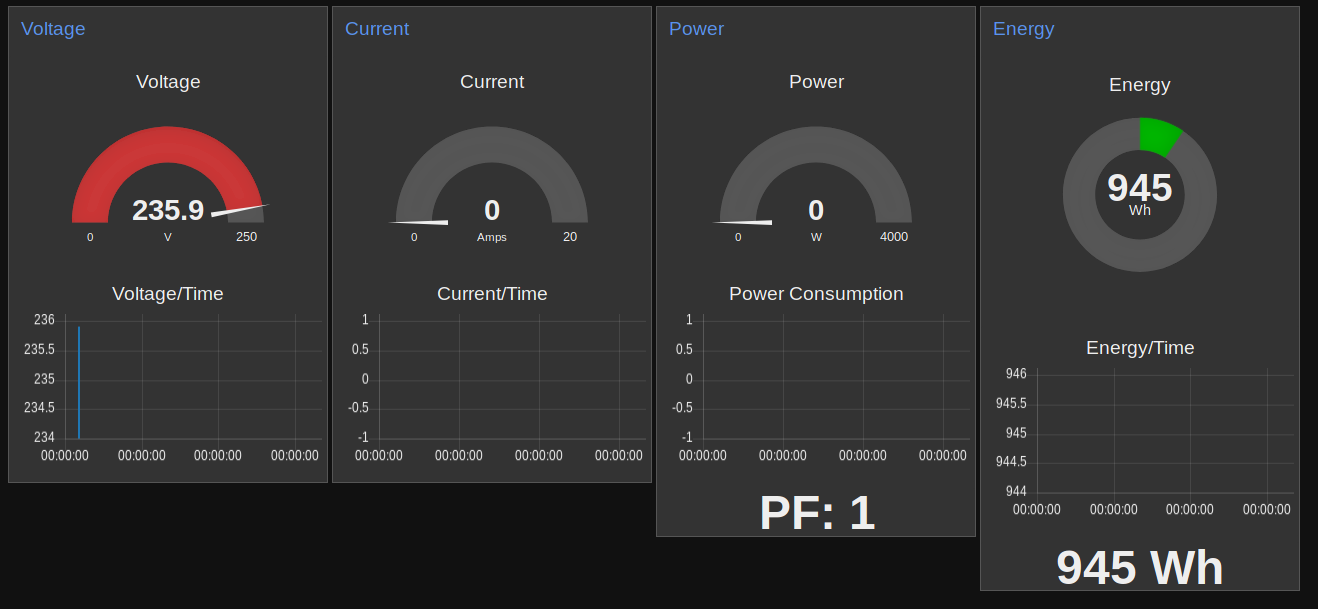
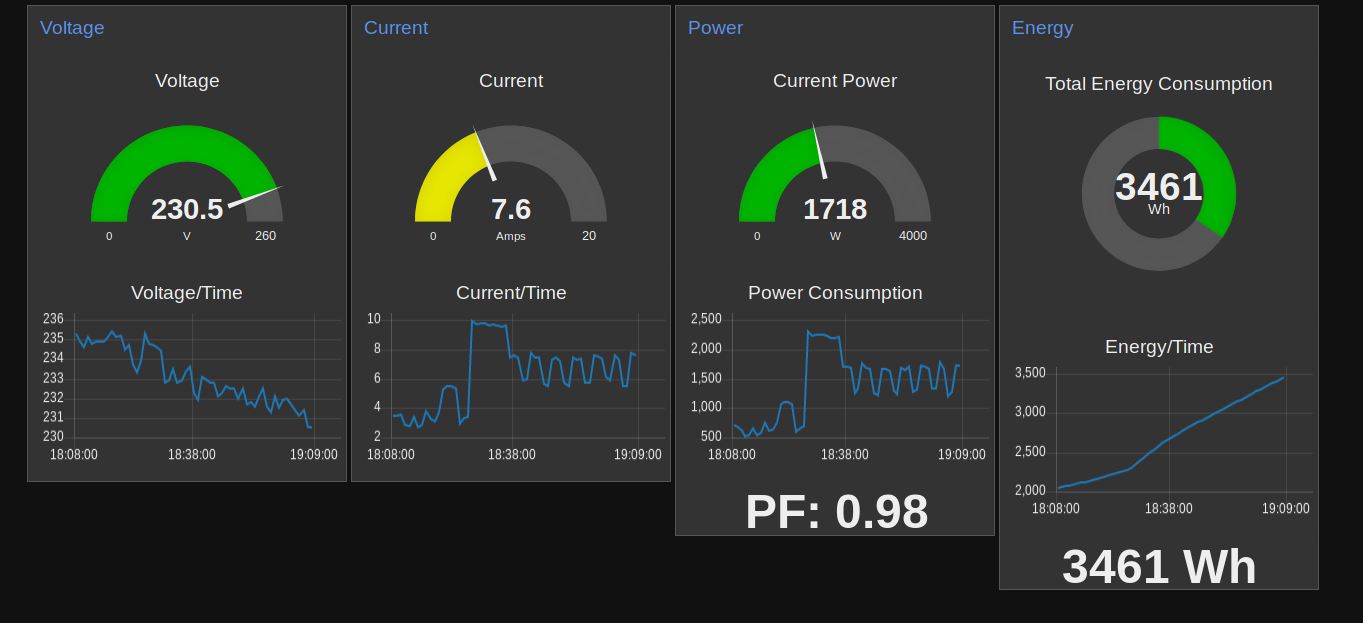
Updated screenshots and readme

diff --git a/README.md b/README.md
@@ -6,3 +6,13 @@ The PowerMeter is designed to use Wemos D1 ESP8266 boards.
 
 The PZEM004T-Test repository contains a simple program for testing the ESP8266 to PZEM004 communications and the retrieving of data from the PZEM004T.
 
+# Screenshots:
+
+Some screenshots of the PowerMeter working:
+
+*ESP8266 based Power Meter Web Interface:*
+![](/images/web_page.png?raw=true)
+
+*The Node-Red UI:*
+![](/images/node_red.png?raw=true)
+
